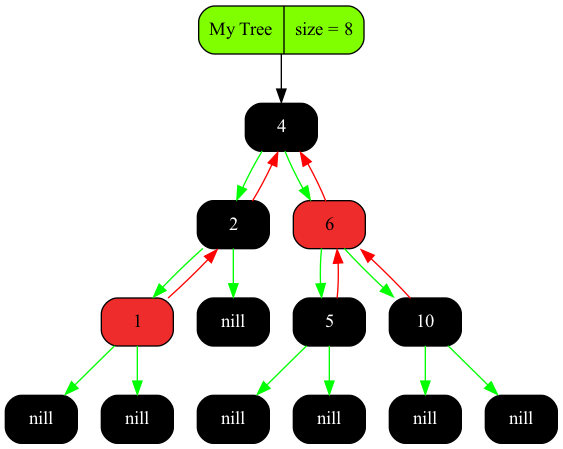
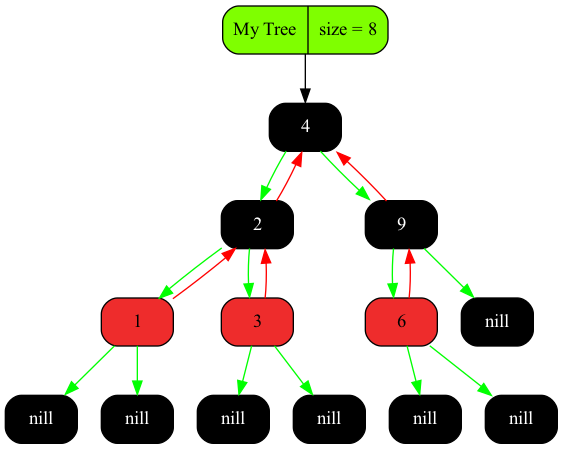
Deleting completed

Changed region(s): [[0.2718, 0.0, 0.9663, 0.8731], [0.8455, 0.8419, 0.8757, 0.9042], [0.7851, 0.5924, 0.8153, 0.6236]]

diff --git a/inc/rbtree.hpp b/inc/rbtree.hpp
@@ -54,7 +54,7 @@ class RBTree
         
         void DeleteNode(node_type* node);
 
-        void DeleteFixUp(node_type* node);
+        void DeleteFixUp(node_type* node, node_type* parent);
 
         void CleanTree(node_type* node);
 
@@ -100,7 +100,7 @@ Node<KeyT>* RBTree<KeyT>::TreeMinimum(Node<KeyT>* node) const
 {
     Node<KeyT>* x = node;
 
-    while(x)
+    while(x->left_)
         x = x->left_;
 
     return x;
@@ -113,7 +113,7 @@ Node<KeyT>* RBTree<KeyT>::TreeMaximum(Node<KeyT>* node) const
 {
     Node<KeyT>* x = node;
 
-    while(x)
+    while(x->right_)
         x = x->right_;
 
     return x;
@@ -328,80 +328,93 @@ void RBTree<KeyT>::InsertFixUp(Node<KeyT>* node)
 template<typename KeyT>
 void RBTree<KeyT>::DeleteNode(Node<KeyT>* erasing_node)
 {
-    Node<KeyT>* node = erasing_node;
+    Node<KeyT>* child  = nullptr;
+    Node<KeyT>* parent = nullptr;
 
-    Node<KeyT>* x = nullptr;
+    Color orig_color = erasing_node->color_;
 
-    Color orig_color = node->color_;
-
-    // std::cout << "Ok" << std::endl;
-
-    if (erasing_node->left_ == nullptr && erasing_node->right_)
+    if (erasing_node->left_ && erasing_node->right_)
     {
-        x = erasing_node->right_;
+        Node<KeyT>* node = TreeMinimum(erasing_node->right_);
 
-        Transplant(erasing_node, x);
+        if (erasing_node->parent_)
+        {
+            if (erasing_node->parent_->left_ == erasing_node)
+                erasing_node->parent_->left_  = node;
 
-        // std::cout << "Ok" << std::endl;
-    }
+            else
+                erasing_node->parent_->right_ = node;
+        }
 
-    else if (erasing_node->right_ == nullptr && erasing_node->left_)
-    {
-        x = erasing_node->left_;
+        else
+            root_ = node;
 
-        Transplant(erasing_node, x);
+        child = node->right_;
 
-        // std::cout << "Ok" << std::endl;
-    }
-
-    else if (erasing_node->left_ && erasing_node->right_)
-    {
-        std::cout << "Ok" << std::endl;
-        node = TreeMinimum(erasing_node->right_);
+        parent = node->parent_;
 
         orig_color = node->color_;
 
-        x = node->right_;
-
-        if (node->parent_ == erasing_node)
-            x->parent_ = erasing_node;
+        if (parent == erasing_node)
+            parent = node;
 
         else
         {
-            Transplant(node, node->right_);
+            if (child)
+                child->parent_ = parent;
+
+            parent->left_ = child;
 
             node->right_ = erasing_node->right_;
 
-            node->right_->parent_ = node;
+            erasing_node->right_->parent_ = node;
         }
 
-        Transplant(erasing_node, node); 
+        node->parent_ = erasing_node->parent_;
+
+        node->color_ = erasing_node->color_;
 
         node->left_ = erasing_node->left_;
 
-        node->left_->parent_ = node;
+        erasing_node->left_->parent_ = node;
 
-        node->color_ = erasing_node->color_;
+        if (orig_color == Black)
+            DeleteFixUp(child, parent);
+
+        delete erasing_node;
+
+        return;
+    }
+
+    if (erasing_node->left_)
+        child = erasing_node->left_;
+
+    else
+        child = erasing_node->right_;
+
+    parent = erasing_node->parent_;
+
+    orig_color = erasing_node->color_;
+
+    if (child)
+        child->parent_ = parent;
+
+    if (parent)
+    {
+        if (erasing_node == parent->left_)
+            parent->left_ = child;
+
+        else
+            parent->right_ = child;
     }
 
     else
+        root_ = child;
+
+    if (orig_color == Black)
     {
-        if (erasing_node == erasing_node->parent_->left_)
-            erasing_node->parent_->left_ = nullptr;
-        
-        else
-            erasing_node->parent_->right_ = nullptr;
+        DeleteFixUp(child, parent);
     }
-
-    // std::cout << "Ok" << std::endl;
-
-    if (orig_color == Color::Black)
-    {
-        // std::cout << "Ok" << std::endl;
-        DeleteFixUp(x);
-    }
-
-    // DeleteFixUp(x);
 
     delete erasing_node;
 }
@@ -409,52 +422,47 @@ void RBTree<KeyT>::DeleteNode(Node<KeyT>* erasing_node)
 //-------------------------------------------------------------------------------//
 
 template<typename KeyT>
-void RBTree<KeyT>::DeleteFixUp(Node<KeyT>* node)
+void RBTree<KeyT>::DeleteFixUp(Node<KeyT>* node, Node<KeyT>* parent)
 {
-    while ((!node) || node != root_ && node->color_ == Black)
+    Node<KeyT>* other_node = nullptr;
+
+    while((!node) || node->color_ == Black && node != root_)
     {
-        if (node == node->parent_->left_)
+        if (parent->left_ == node)
         {
-            Node<KeyT>* brother = node->parent_->right_;
+            other_node = parent->right_;
 
-            if (brother->color_ == Red)
+            if (other_node->color_ == Red)
             {
-                brother->color_ = Black;
+                other_node->color_ = Black;
 
-                node->parent_->color_ = Red;
+                parent->color_ = Red;
 
-                LeftRotate(node->parent_);
+                LeftRotate(parent);
 
-                brother = node->parent_->right_;
-            }
-
-            if (brother->left_->color_ == Black && brother->right_->color_ == Black)
-            {
-                brother->color_ = Red;
-
-                node = node->parent_;
+                other_node = parent->right_;
             }
 
             else
             {
-                if (brother->right_->color_ == Black)
+                if (!(other_node->right_) || other_node->right_->color_ == Black)
                 {
-                    brother->left_->color_ = Black;
+                    other_node->left_->color_ = Black;
 
-                    brother->color_ = Red;
+                    other_node->color_ = Red;
 
-                    RightRotate(brother);
+                    RightRotate(other_node);
 
-                    brother = node->parent_->right_;
-                } 
+                    other_node = parent->right_;
+                }
 
-                brother->color_ = node->parent_->color_;
+                other_node->color_ = parent->color_;
 
-                node->parent_->color_ = Black;
+                parent->color_ = Black;
 
-                brother->right_->color_ = Black;
+                other_node->right_->color_ = Black;
 
-                LeftRotate(node->parent_);
+                LeftRotate(parent);
 
                 node = root_;
 
@@ -464,46 +472,48 @@ void RBTree<KeyT>::DeleteFixUp(Node<KeyT>* node)
 
         else
         {
-            Node<KeyT>* brother = node->parent_->left_;
+            other_node = parent->left_;
 
-            if (brother->color_ == Red)
+            if (other_node->color_ == Red)
             {
-                brother->color_ = Black;
+                other_node->color_ = Black;
 
-                node->parent_->color_ = Red;
+                parent->color_ = Red;
 
-                RightRotate(node->parent_);
+                RightRotate(parent);
 
-                brother = node->left_->parent_;
+                other_node = parent->left_;
             }
 
-            if (brother->left_->color_ == Black && brother->right_->color_ == Black)
-            {
-                brother->color_ = Red;
+            if ((!other_node->left_ || other_node->left_->color_ == Black) && (!other_node->right_ || other_node->right_->color_ == Black))
+			{
+				other_node->color_ = Red;
 
-                node = node->parent_;
-            }
+				node = parent;
+
+				parent = node->parent_;
+			}
 
             else
             {
-                if (brother->left_->color_ == Black)
+                if (!(other_node->left_) || other_node->left_->color_ == Black)
                 {
-                    brother->right_->color_ = Black;
+                    other_node->right_->color_ = Black;
 
-                    brother->color_ = Red;
+                    other_node->color_ = Red;
 
-                    LeftRotate(brother);
+                    LeftRotate(other_node);
 
-                    brother = node->parent_->left_;
+                    other_node = parent->left_;
                 }
 
-                brother->color_ = node->parent_->color_;
+                other_node->color_ = parent->color_;
 
-                node->parent_->color_ = Black;
+                parent->color_ = Black;
 
-                brother->left_->color_ = Black;
+                other_node->left_->color_ = Black;
 
-                RightRotate(node->parent_);
+                RightRotate(parent);
 
                 node = root_;
 

diff --git a/src/main.cpp b/src/main.cpp
@@ -36,14 +36,14 @@ int main(int argc, char** argv)
     TreeDump(&tree);
 
     tree.InsertKey(9);
-
-    TreeDump(&tree);
-
-    tree.DeleteKey(9);
     
     TreeDump(&tree);
 
-    tree.DeleteKey(3);
+    tree.DeleteKey(5);
+
+    TreeDump(&tree);
+
+    tree.DeleteKey(10);
 
     TreeDump(&tree);
 
